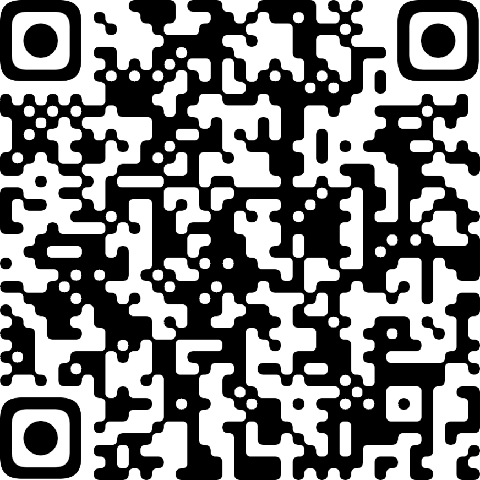
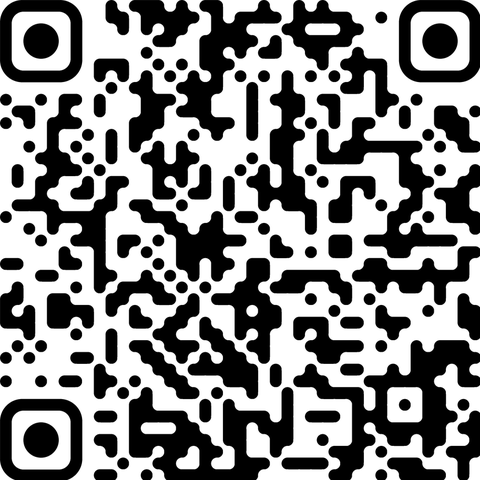
官网：Windows 版已开放；更新微信群二维码

diff --git a/docs/en/index.html b/docs/en/index.html
@@ -469,7 +469,7 @@ body>footer .copy{flex-basis:100%;margin-top:20px;padding-top:20px;border-top:1p
     <div><div class="intro"><p class="nm">/ SlashSci Library</p><p class="ld">Literature management, rebuilt for the AI era</p>
       <ul><li><b>Block-level</b>papers as structured data, not PDFs</li><li><b>Immersive</b>sentence-by-sentence translation, anchored notes</li><li><b>Local-first</b>every file stays on your machine</li><li><b>Agent-ready</b>built-in MCP for direct model access</li></ul></div>
       <div class="cta"><a class="btn" href="#community">Join the beta</a><a class="btn alt" href="#demo">Try it in the browser</a></div></div>
-    <p class="side">SlashSci Library · Beta 0.1<br>macOS (Apple silicon) first · Windows coming soon</p>
+    <p class="side">SlashSci Library · Beta 0.1<br>macOS (Apple silicon) · Windows 64-bit</p>
   </div>
 </section>
 
@@ -602,14 +602,15 @@ body>footer .copy{flex-basis:100%;margin-top:20px;padding-top:20px;border-top:1p
 <section class="dl" id="download"><div class="wrap">
   <div class="label rv"><b>/</b> Download</div>
   <h2 class="rv d1">Download and install</h2>
-  <div class="notice rv"><div><span class="k">/ Closed beta · macOS first</span><p>SlashSci Library is in a small closed beta, opening first on macOS (Apple silicon); the Windows version will follow once it is stable. So that every piece of feedback gets a prompt answer, builds are not publicly downloadable yet; they are shared through the beta community. Join any of the groups to get the latest build, install guidance and update notices.</p></div><a class="btn" href="#community">Join the beta community →</a></div>
+  <div class="notice rv"><div><span class="k">/ Closed beta · macOS and Windows</span><p>SlashSci Library is in a small closed beta, now on both macOS (Apple silicon) and Windows (64-bit). So that every piece of feedback gets a prompt answer, builds are not publicly downloadable yet; they are shared through the beta community. Join any of the groups to get the latest build, install guidance and update notices.</p></div><a class="btn" href="#community">Join the beta community →</a></div>
   <div class="box">
     <div class="os rv"><b>macOS</b><small>Apple silicon · macOS 13 or later</small><span class="file">Available to beta members</span></div>
-    <div class="os soon rv d1"><b>Windows</b><small>64-bit · Windows 10 or later</small><span class="file">Coming soon</span></div>
+    <div class="os rv d1"><b>Windows</b><small>64-bit · Windows 10 or later</small><span class="file">Available to beta members</span></div>
   </div>
-  <p class="how rv d2">Installing the macOS beta</p>
+  <p class="how rv d2">Installing the beta</p>
   <ol class="steps rv d2">
     <li><b>Mac</b>: open the .dmg and drag SlashSci into Applications. If macOS says it can't verify the developer, go to System Settings → Privacy &amp; Security and click “Open Anyway”.</li>
+    <li><b>Windows</b>: double-click the .exe. If the blue “Windows protected your PC” screen appears, click “More info”, then “Run anyway”.</li>
     <li>When a new version is out, an “Update” button appears on the left of the app; click it to download.</li>
   </ol>
 </div></section>

diff --git a/docs/index.html b/docs/index.html
@@ -469,7 +469,7 @@ body>footer .copy{flex-basis:100%;margin-top:20px;padding-top:20px;border-top:1p
     <div><div class="intro"><p class="nm">/ SlashSci Library</p><p class="ld">为 AI 时代重构的文献管理</p>
       <ul><li><b>块级解构</b>告别 PDF，文献即结构化数据</li><li><b>沉浸译读</b>逐句翻译，浮动锚定批注</li><li><b>本地优先</b>全部数据存于本机</li><li><b>Agent 就绪</b>内置 MCP，模型直接调用</li></ul></div>
       <div class="cta"><a class="btn" href="#community">加入内测</a><a class="btn alt" href="#demo">在浏览器里试试</a></div></div>
-    <p class="side">SlashSci Library · 内测版 0.1<br>首批开放 macOS（Apple 芯片）· Windows 版即将推出</p>
+    <p class="side">SlashSci Library · 内测版 0.1<br>macOS（Apple 芯片）· Windows 64 位</p>
   </div>
 </section>
 
@@ -602,14 +602,15 @@ body>footer .copy{flex-basis:100%;margin-top:20px;padding-top:20px;border-top:1p
 <section class="dl" id="download"><div class="wrap">
   <div class="label rv"><b>/</b> 下载</div>
   <h2 class="rv d1">下载与安装</h2>
-  <div class="notice rv"><div><span class="k">/ 内测阶段 · 首批开放 macOS</span><p>SlashSci Library 目前处于小范围内测，首批开放 macOS（Apple 芯片）版本，Windows 版将在稳定后推出。为保证每一条反馈都能得到及时跟进，安装包暂不公开下载，仅通过内测社区发放。加入任一内测群，即可获取最新版本、安装指引与更新通知。</p></div><a class="btn" href="#community">加入内测社区 →</a></div>
+  <div class="notice rv"><div><span class="k">/ 内测阶段 · macOS 与 Windows</span><p>SlashSci Library 目前处于小范围内测，macOS（Apple 芯片）与 Windows（64 位）版本均已开放。为保证每一条反馈都能得到及时跟进，安装包暂不公开下载，仅通过内测社区发放。加入任一内测群，即可获取最新版本、安装指引与更新通知。</p></div><a class="btn" href="#community">加入内测社区 →</a></div>
   <div class="box">
     <div class="os rv"><b>macOS</b><small>Apple 芯片 · macOS 13 及以上</small><span class="file">内测成员定向发放</span></div>
-    <div class="os soon rv d1"><b>Windows</b><small>64 位 · Windows 10 及以上</small><span class="file">即将推出</span></div>
+    <div class="os rv d1"><b>Windows</b><small>64 位 · Windows 10 及以上</small><span class="file">内测成员定向发放</span></div>
   </div>
-  <p class="how rv d2">安装说明（macOS 内测版）</p>
+  <p class="how rv d2">安装说明（内测版）</p>
   <ol class="steps rv d2">
     <li><b>Mac</b>：打开 .dmg，把 SlashSci 拖进「应用程序」。第一次打开如提示「无法验证开发者」，到「系统设置 → 隐私与安全性」点「仍要打开」。</li>
+    <li><b>Windows</b>：双击 .exe 安装。出现蓝色的「Windows 已保护你的电脑」时，点「更多信息」，再点「仍要运行」。</li>
     <li>新版本发布后，应用左侧会出现「新版本」按钮，点一下即可下载。</li>
   </ol>
 </div></section>

diff --git a/docs/zh-hant/index.html b/docs/zh-hant/index.html
@@ -469,7 +469,7 @@ body>footer .copy{flex-basis:100%;margin-top:20px;padding-top:20px;border-top:1p
     <div><div class="intro"><p class="nm">/ SlashSci Library</p><p class="ld">為 AI 時代重構的文獻管理</p>
       <ul><li><b>塊級解構</b>告別 PDF，文獻即結構化資料</li><li><b>沉浸譯讀</b>逐句翻譯，浮動錨定批註</li><li><b>本地優先</b>全部資料存於本機</li><li><b>Agent 就緒</b>內建 MCP，模型直接呼叫</li></ul></div>
       <div class="cta"><a class="btn" href="#community">加入內測</a><a class="btn alt" href="#demo">在瀏覽器裡試試</a></div></div>
-    <p class="side">SlashSci Library · 內測版 0.1<br>首批開放 macOS（Apple 晶片）· Windows 版即將推出</p>
+    <p class="side">SlashSci Library · 內測版 0.1<br>macOS（Apple 晶片）· Windows 64 位</p>
   </div>
 </section>
 
@@ -602,14 +602,15 @@ body>footer .copy{flex-basis:100%;margin-top:20px;padding-top:20px;border-top:1p
 <section class="dl" id="download"><div class="wrap">
   <div class="label rv"><b>/</b> 下載</div>
   <h2 class="rv d1">下載與安裝</h2>
-  <div class="notice rv"><div><span class="k">/ 內測階段 · 首批開放 macOS</span><p>SlashSci Library 目前處於小範圍內測，首批開放 macOS（Apple 晶片）版本，Windows 版將在穩定後推出。為保證每一條反饋都能得到及時跟進，安裝包暫不公開下載，僅通過內測社群發放。加入任一內測群，即可獲取最新版本、安裝指引與更新通知。</p></div><a class="btn" href="#community">加入內測社群 →</a></div>
+  <div class="notice rv"><div><span class="k">/ 內測階段 · macOS 與 Windows</span><p>SlashSci Library 目前處於小範圍內測，macOS（Apple 晶片）與 Windows（64 位）版本均已開放。為保證每一條反饋都能得到及時跟進，安裝包暫不公開下載，僅通過內測社群發放。加入任一內測群，即可獲取最新版本、安裝指引與更新通知。</p></div><a class="btn" href="#community">加入內測社群 →</a></div>
   <div class="box">
     <div class="os rv"><b>macOS</b><small>Apple 晶片 · macOS 13 及以上</small><span class="file">內測成員定向發放</span></div>
-    <div class="os soon rv d1"><b>Windows</b><small>64 位 · Windows 10 及以上</small><span class="file">即將推出</span></div>
+    <div class="os rv d1"><b>Windows</b><small>64 位 · Windows 10 及以上</small><span class="file">內測成員定向發放</span></div>
   </div>
-  <p class="how rv d2">安裝說明（macOS 內測版）</p>
+  <p class="how rv d2">安裝說明（內測版）</p>
   <ol class="steps rv d2">
     <li><b>Mac</b>：開啟 .dmg，把 SlashSci 拖進「應用程式」。第一次開啟如提示「無法驗證開發者」，到「系統設定 → 隱私與安全性」點「仍要開啟」。</li>
+    <li><b>Windows</b>：雙擊 .exe 安裝。出現藍色的「Windows 已保護你的電腦」時，點「更多資訊」，再點「仍要執行」。</li>
     <li>新版本釋出後，應用左側會出現「新版本」按鈕，點一下即可下載。</li>
   </ol>
 </div></section>

diff --git a/README.md b/README.md
@@ -13,7 +13,7 @@
 <p align="center">
 <a href="../../releases/latest"><img alt="Release" src="https://img.shields.io/github/v/release/SlashSci/slashsci?style=flat-square&label=beta&color=2D5A67"></a>
 <img alt="macOS" src="https://img.shields.io/badge/macOS-Apple_silicon-2D5A67?style=flat-square&logo=apple&logoColor=white">
-<img alt="Windows" src="https://img.shields.io/badge/Windows-coming_soon-8a9a9c?style=flat-square">
+<img alt="Windows" src="https://img.shields.io/badge/Windows-64--bit-2D5A67?style=flat-square&logo=windows&logoColor=white">
 <img alt="MCP" src="https://img.shields.io/badge/MCP-built--in-2D5A67?style=flat-square">
 <a href="https://discord.com/invite/ewNMAHvWsp"><img alt="Discord" src="https://img.shields.io/badge/Discord-join-5865F2?style=flat-square&logo=discord&logoColor=white"></a>
 </p>
@@ -27,7 +27,7 @@
 </p>
 
 > [!NOTE]
-> **内测阶段 · 首批开放 macOS**：SlashSci Library 目前处于小范围内测，首批开放 macOS（Apple 芯片），Windows 版将在稳定后推出。加入内测社区，即可获取安装包、安装指引与更新通知，并直接向开发者反馈。
+> **内测阶段 · macOS 与 Windows**：SlashSci Library 目前处于小范围内测，macOS（Apple 芯片）与 Windows（64 位）版本均已开放。加入内测社区，即可获取安装包、安装指引与更新通知，并直接向开发者反馈。
 
 ## 核心能力
 
@@ -107,20 +107,24 @@ index.sqlite            可重建
 | 平台 | 系统要求 | 状态 |
 | --- | --- | --- |
 | **macOS** | Apple 芯片 · macOS 13 及以上 | 内测中 · [下载最新版](../../releases/latest) |
-| **Windows** | 64 位 · Windows 10 及以上 | 即将推出 |
+| **Windows** | 64 位 · Windows 10 及以上 | 内测中 · [下载最新版](../../releases/latest) |
 
 安装包通过内测社区发放；已加入的成员也可以直接在 [Releases](../../releases/latest) 下载最新版本。
 
-**安装说明（macOS 内测版）**
+**安装说明（内测版）**
 
-1. 下载 `SlashSci-<版本>-arm64.dmg`，打开后把 SlashSci 拖进「应用程序」。
-2. 第一次打开时如果被系统拦截，见下方说明。
-3. 新版本发布后，应用左侧会出现「新版本」按钮，点一下即可下载。
+1. **macOS**：下载 `SlashSci-<版本>-arm64.dmg`，打开后把 SlashSci 拖进「应用程序」。
+2. **Windows**：下载 `SlashSci-<版本>-x64.exe`，双击安装。
+3. 第一次打开时如果被系统拦截，见下方说明。
+4. 新版本发布后，应用左侧会出现「新版本」按钮，点一下即可下载。
 
 <details>
-<summary>第一次打开时提示「无法验证开发者」？</summary>
+<summary>第一次打开时被系统拦截？</summary>
 
-内测版尚未签名，这是 macOS 对未签名应用的默认提示。到「系统设置 → 隐私与安全性」，在页面下方点「仍要打开」即可，只需操作一次。
+内测版尚未签名，这是系统对未签名应用的默认提示，只需操作一次。
+
+- **macOS**（提示「无法验证开发者」）：到「系统设置 → 隐私与安全性」，在页面下方点「仍要打开」。
+- **Windows**（蓝色的「Windows 已保护你的电脑」）：点「更多信息」，再点「仍要运行」。
 
 </details>
 
@@ -136,19 +140,19 @@ index.sqlite            可重建
 <td align="center" width="33%">
 <img src="docs/img/readme/qr-discord.png" width="148" alt="Discord"><br>
 <b>Discord</b><br>
-<sub>加入 Discord 社区</sub><br>
+<sub>扫码或通过链接加入 Discord 社区</sub><br>
 <a href="https://discord.com/invite/ewNMAHvWsp">加入 Discord →</a>
 </td>
 <td align="center" width="33%">
 <img src="docs/img/readme/qr-wechat.png" width="148" alt="微信"><br>
 <b>微信</b><br>
-<sub>加入微信内测群</sub><br>
+<sub>用微信扫码加入内测群</sub><br>
 &nbsp;
 </td>
 <td align="center" width="33%">
 <img src="docs/img/readme/qr-xhs.png" width="148" alt="小红书"><br>
 <b>小红书</b><br>
-<sub>加入小红书内测群</sub><br>
+<sub>扫码或通过链接加入小红书群</sub><br>
 <a href="http://xhslink.com/m/MAL0EEu5FS">加入小红书群 →</a>
 </td>
 </tr>

diff --git a/README.en.md b/README.en.md
@@ -13,7 +13,7 @@ Block-level · Immersive · Local-first · Agent-ready</p>
 <p align="center">
 <a href="../../releases/latest"><img alt="Release" src="https://img.shields.io/github/v/release/SlashSci/slashsci?style=flat-square&label=beta&color=2D5A67"></a>
 <img alt="macOS" src="https://img.shields.io/badge/macOS-Apple_silicon-2D5A67?style=flat-square&logo=apple&logoColor=white">
-<img alt="Windows" src="https://img.shields.io/badge/Windows-coming_soon-8a9a9c?style=flat-square">
+<img alt="Windows" src="https://img.shields.io/badge/Windows-64--bit-2D5A67?style=flat-square&logo=windows&logoColor=white">
 <img alt="MCP" src="https://img.shields.io/badge/MCP-built--in-2D5A67?style=flat-square">
 <a href="https://discord.com/invite/ewNMAHvWsp"><img alt="Discord" src="https://img.shields.io/badge/Discord-join-5865F2?style=flat-square&logo=discord&logoColor=white"></a>
 </p>
@@ -27,7 +27,7 @@ Block-level · Immersive · Local-first · Agent-ready</p>
 </p>
 
 > [!NOTE]
-> **Closed beta · macOS first**: SlashSci Library is in a small closed beta, opening first on macOS (Apple silicon); the Windows version will follow once it is stable. Join the beta community for builds, install guidance and update notices, and to talk to the developer directly.
+> **Closed beta · macOS and Windows**: SlashSci Library is in a small closed beta, now on both macOS (Apple silicon) and Windows (64-bit). Join the beta community for builds, install guidance and update notices, and to talk to the developer directly.
 
 ## What it does
 
@@ -107,20 +107,24 @@ index.sqlite            rebuildable
 | Platform | Requirements | Status |
 | --- | --- | --- |
 | **macOS** | Apple silicon · macOS 13 or later | In beta · [latest build](../../releases/latest) |
-| **Windows** | 64-bit · Windows 10 or later | Coming soon |
+| **Windows** | 64-bit · Windows 10 or later | In beta · [latest build](../../releases/latest) |
 
 Builds are shared through the beta community; members can also download the latest version from [Releases](../../releases/latest).
 
-**Installing the macOS beta**
+**Installing the beta**
 
-1. Download `SlashSci-<version>-arm64.dmg`, open it and drag SlashSci into Applications.
-2. If macOS blocks the first launch, see below.
-3. When a new version is out, an “Update” button appears on the left of the app; click it to download.
+1. **macOS**: download `SlashSci-<version>-arm64.dmg`, open it and drag SlashSci into Applications.
+2. **Windows**: download `SlashSci-<version>-x64.exe` and double-click it to install.
+3. If the system blocks the first launch, see below.
+4. When a new version is out, an “Update” button appears on the left of the app; click it to download.
 
 <details>
-<summary>macOS says it can't verify the developer?</summary>
+<summary>Blocked on first launch?</summary>
 
-The beta is not signed yet, and this is macOS's standard message for unsigned apps. Go to System Settings → Privacy & Security and click “Open Anyway” near the bottom. You only need to do this once.
+The beta is not signed yet, and this is the system's standard message for unsigned apps. You only need to do this once.
+
+- **macOS** (“can't verify the developer”): go to System Settings → Privacy & Security and click “Open Anyway” near the bottom.
+- **Windows** (blue “Windows protected your PC” screen): click “More info”, then “Run anyway”.
 
 </details>
 

diff --git a/README.zh-Hant.md b/README.zh-Hant.md
@@ -13,7 +13,7 @@
 <p align="center">
 <a href="../../releases/latest"><img alt="Release" src="https://img.shields.io/github/v/release/SlashSci/slashsci?style=flat-square&label=beta&color=2D5A67"></a>
 <img alt="macOS" src="https://img.shields.io/badge/macOS-Apple_silicon-2D5A67?style=flat-square&logo=apple&logoColor=white">
-<img alt="Windows" src="https://img.shields.io/badge/Windows-coming_soon-8a9a9c?style=flat-square">
+<img alt="Windows" src="https://img.shields.io/badge/Windows-64--bit-2D5A67?style=flat-square&logo=windows&logoColor=white">
 <img alt="MCP" src="https://img.shields.io/badge/MCP-built--in-2D5A67?style=flat-square">
 <a href="https://discord.com/invite/ewNMAHvWsp"><img alt="Discord" src="https://img.shields.io/badge/Discord-join-5865F2?style=flat-square&logo=discord&logoColor=white"></a>
 </p>
@@ -27,7 +27,7 @@
 </p>
 
 > [!NOTE]
-> **內測階段 · 首批開放 macOS**：SlashSci Library 目前處於小範圍內測，首批開放 macOS（Apple 晶片），Windows 版將在穩定後推出。加入內測社群，即可獲取安裝包、安裝指引與更新通知，並直接向開發者反饋。
+> **內測階段 · macOS 與 Windows**：SlashSci Library 目前處於小範圍內測，macOS（Apple 晶片）與 Windows（64 位）版本均已開放。加入內測社群，即可獲取安裝包、安裝指引與更新通知，並直接向開發者反饋。
 
 ## 核心能力
 
@@ -107,20 +107,24 @@ index.sqlite            可重建
 | 平臺 | 系統要求 | 狀態 |
 | --- | --- | --- |
 | **macOS** | Apple 晶片 · macOS 13 及以上 | 內測中 · [下載最新版](../../releases/latest) |
-| **Windows** | 64 位 · Windows 10 及以上 | 即將推出 |
+| **Windows** | 64 位 · Windows 10 及以上 | 內測中 · [下載最新版](../../releases/latest) |
 
 安裝包通過內測社群發放；已加入的成員也可以直接在 [Releases](../../releases/latest) 下載最新版本。
 
-**安裝說明（macOS 內測版）**
+**安裝說明（內測版）**
 
-1. 下載 `SlashSci-<版本>-arm64.dmg`，開啟後把 SlashSci 拖進「應用程式」。
-2. 第一次開啟時如果被系統攔截，見下方說明。
-3. 新版本釋出後，應用左側會出現「新版本」按鈕，點一下即可下載。
+1. **macOS**：下載 `SlashSci-<版本>-arm64.dmg`，開啟後把 SlashSci 拖進「應用程式」。
+2. **Windows**：下載 `SlashSci-<版本>-x64.exe`，雙擊安裝。
+3. 第一次開啟時如果被系統攔截，見下方說明。
+4. 新版本釋出後，應用左側會出現「新版本」按鈕，點一下即可下載。
 
 <details>
-<summary>第一次開啟時提示「無法驗證開發者」？</summary>
+<summary>第一次開啟時被系統攔截？</summary>
 
-內測版尚未簽名，這是 macOS 對未簽名應用的預設提示。到「系統設定 → 隱私與安全性」，在頁面下方點「仍要開啟」即可，只需操作一次。
+內測版尚未簽名，這是系統對未簽名應用的預設提示，只需操作一次。
+
+- **macOS**（提示「無法驗證開發者」）：到「系統設定 → 隱私與安全性」，在頁面下方點「仍要開啟」。
+- **Windows**（藍色的「Windows 已保護你的電腦」）：點「更多資訊」，再點「仍要執行」。
 
 </details>
 
